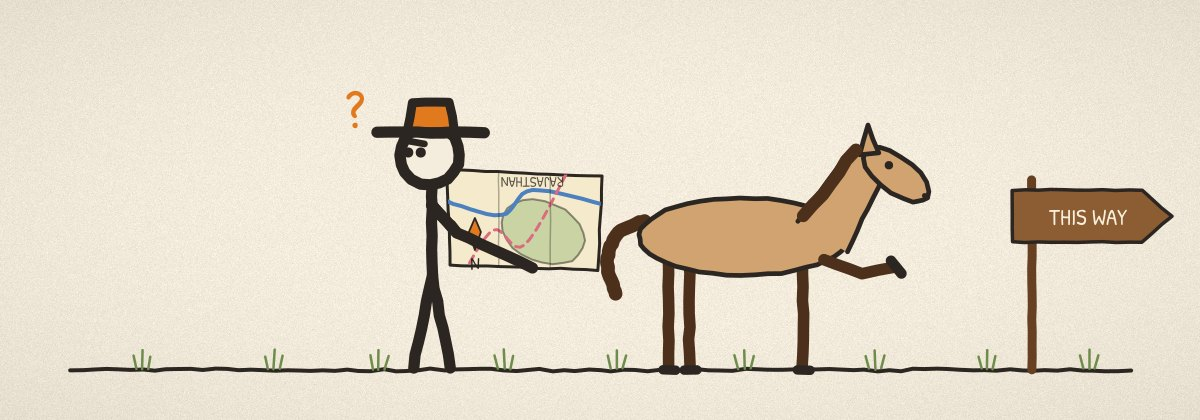
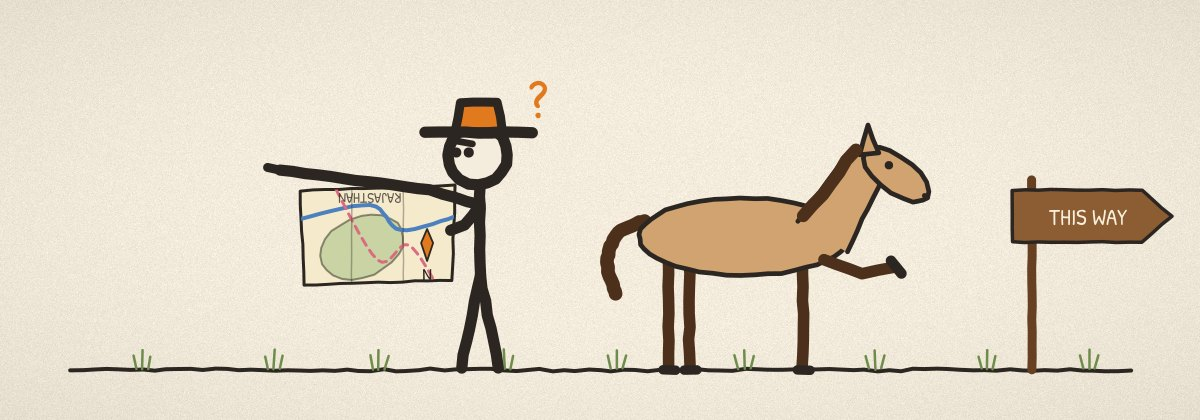
Sign-up drawing: rider and map face away from the horse
Claude-Session: https://claude.ai/code/session_01HEXA79LndFLXDWgwdNzoJp

Changed region(s): [[0.2158, 0.1857, 0.5242, 0.8976], [0.2775, 0.2167, 0.3083, 0.2786]]

diff --git a/index.html b/index.html
@@ -75,7 +75,7 @@
   </section>
 
   <section class="signup" hidden>
-    <img class="signup-art" src="assets/map-wrong-way.jpg" width="1200" height="420" loading="lazy" style="display:block;width:100%;height:auto;margin:0 auto 12px;border-radius:8px" alt="Cartoon: a rider squints at an upside-down map and faces left, while his horse lifts a hoof toward a signpost on the right that says This Way.">
+    <img class="signup-art" src="assets/map-wrong-way.jpg" width="1200" height="420" loading="lazy" style="display:block;width:100%;height:auto;margin:0 auto 12px;border-radius:8px" alt="Cartoon: a rider faces left and points that way, holding an upside-down map, while his horse faces the other way and lifts a hoof toward a signpost that says This Way.">
     <h2>Follow the trail!</h2>
     <p>Subscribe and see how fast I get lost.</p>
     <form method="post" target="_blank">
